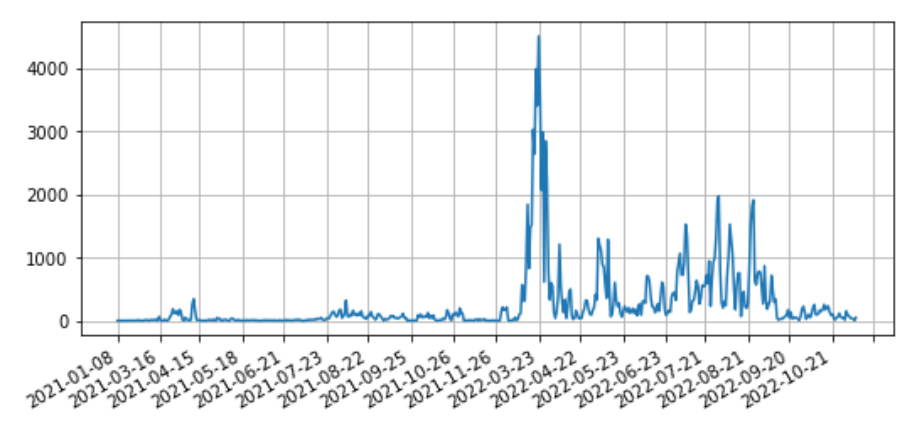
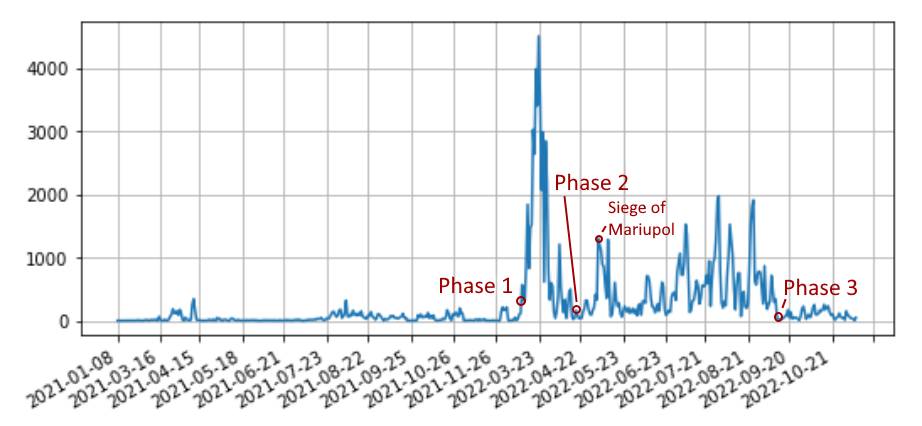
updated readme

diff --git a/readme.md b/readme.md
@@ -1,4 +1,16 @@
-### Sources
+# Russo-Ukrainian War monitoring with NASA's FIRMS
+by Leonardo Möllmann Schöller
+
+## Why use FIRMS to detect war activity?
+| ![national-park-on-fire-twitter](./docs/FIRMSByDate.PNG) |
+|:--:|
+| Distribution of data points by date, direct correlation |
+
+## Motivation
+---
+There are several motives to this topic, the biggest one is if this model can detect the intent score of the fire it can help start independent war crimes investigations and help identify climate damage concerning the war.
+
+## Sources
 ---
 * Center for information resilience (twitter data on confirmed attacks) - https://github.com/mauforonda/ukraine
 * FIRMS archive data - https://firms.modaps.eosdis.nasa.gov/download/
@@ -7,9 +19,9 @@
 * FIRMS manual - https://modis-fire.umd.edu/files/MODIS_C6_Fire_User_Guide_C.pdf
 * Ukraine regions - https://geodata.lib.utexas.edu/catalog/stanford-gg870xt4706
 * Ukraine cities, Nature reserves, Forests, Rails, Roads - http://download.geofabrik.de/
-* Ukraine forest fires https://ceobs.org/countries/ukraine/
+* Ukraine forest fires - https://ceobs.org/countries/ukraine/
 
-### Model
+## Model
 ---
 FIRMS' detected heat signatures are relatively big events of some tons of materials burning in a period, it is mainly used to track fire paths in wildfires for later be used in prevention and data collection about how our climate is changing through the years. These fires could also be triggered by artillery or sabotage, in other words, intentional fire.
 
@@ -22,11 +34,7 @@ The goal is to differentiate what class the FIRMS detected fire point is, is it 
 
 With this model, we can mass classification data to track independently and in real-time where the fighting is occurring and the intensity of it.
 
-### Motivation
----
-There are several motives to this topic, the biggest one is if this model can detect the intent score of the fire it can help start independent war crimes investigations and help identify climate damage concerning the war.
-
-### Annotation
+## Annotation
 ---
 The annotation is done by cross-relating temporal and geographical data from Twitter and NASA's FIRMS, this is done both manually and by bulk relation with data sources like the Center for Information Resilience using PostGIS queries.
 
@@ -40,13 +48,9 @@ Another event to consider is that with war, most services are overloaded or stop
 |:--:|
 | FIRMS detected fires around 2022/05/10 |
 
-### Data
+## Data
 ---
-| ![firms-distribution](./docs/FIRMSByDate.PNG) |
-|:--:|
-| FIRMS distribution of data by date, note that the huge spike is the beginning of the war |
-
-#### FIRMS attributes
+### FIRMS attributes
 Acquired Data:
 - `point` or (`lon`, `lat`), coordinate of detection;
 - `date`, datetime of detection;
@@ -67,7 +71,7 @@ Model Data
 - `intent`, category of the fire, 1 for accidental, 2 for attack
 - `source`, where the classification comes from, 1 for annotated, 2 for predicted
 
-#### FIRMS data categories
+### FIRMS data categories
 |Type                              |Count  |Class    |
 |---                               |---    |---      |
 |2021-01-01 to 2022-02-23          |10115  |-        |
@@ -76,9 +80,12 @@ Model Data
 |Biloberezhia wildfire             |       |Accident |
 |Center for information resilience |       |Attack   |
 |Siege of Matiupol                 |       |Attack   |
+|Siege of Sievierodonetsk          |       |Attack   |
 |Sviatohirsk Lavra                 |       |?        |
 
 * 1Km from a forest, before the war
+
+Technically, every fire before the war began was an accident, but to encourage the modal to learn more about natural forest fires, this bias was provided.
 
 | ![AccidentalFiresBeforeWar](./docs/AccidentalFiresBeforeWar.PNG) |
 |:--:|
@@ -92,16 +99,7 @@ Model Data
 |dist_road      |333.939 |
 |dist_rail      |453.745 |
 |avg_population |49.794  |
-### Normalization
+## Normalization
 ---
 The distance normalizations need to be a diminishing return function that converges fast, this equation gives these properties: $\frac{1}{e^x}$
 
-### Equations
----
-| ![inverse-square-cube](./docs/InverseSqrCube.PNG) |
-|:--:|
-| $\frac{1}{\sqrt{x}+1}$ |
-
-| ![inverse-e-to-x](./docs/InverseEToX.PNG) |
-|:--:|
-| $\frac{1}{e^x}$ |
